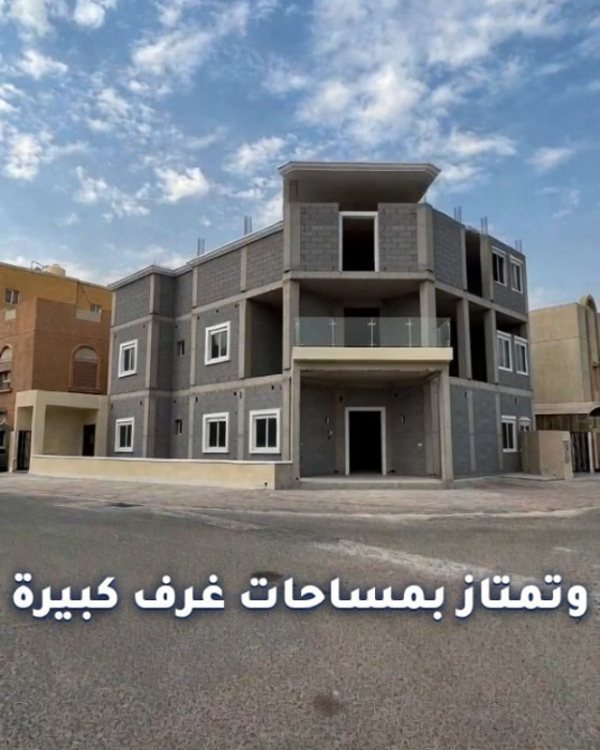
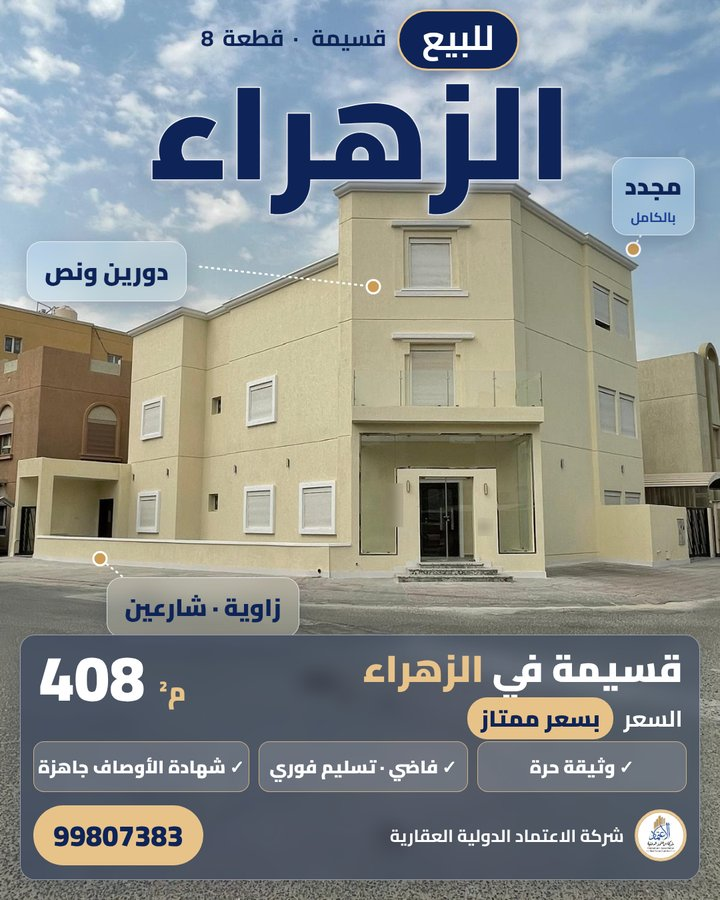
Add Zahraa B8 listing
Claude-Session: https://claude.ai/code/session_01XqGtHJzfqwwHJM9AbptEBK

diff --git a/for-sale.html b/for-sale.html
@@ -51,6 +51,11 @@
     
     <div class="grid">
       <article class="card reveal">
+        <div class="ph"><img src="img/zahraa8.jpg" alt="قسيمة للبيع في الزهراء قطعة 8" loading="lazy"><span class="tag">للبيع</span></div>
+        <div class="body"><h3>قسيمة · الزهراء ق8</h3><div class="meta"><span>408 م²</span><span>زاوية شارعين</span><span>مجددة · تسليم فوري</span></div>
+        <div class="price"><b>بسعر ممتاز</b><a href="https://wa.me/96598926543?text=%D8%A7%D8%B3%D8%AA%D9%81%D8%B3%D8%A7%D8%B1%20%D8%B9%D9%86%20%D9%82%D8%B3%D9%8A%D9%85%D8%A9%20%D8%A7%D9%84%D8%B2%D9%87%D8%B1%D8%A7%D8%A1%20%D9%828" target="_blank" rel="noopener">استفسار ←</a></div></div>
+      </article>
+      <article class="card reveal">
         <div class="ph"><img src="img/qurain1.jpg" alt="بيت للبيع في القرين قطعة 1" loading="lazy"><span class="tag">للبيع</span></div>
         <div class="body"><h3>بيت · القرين ق1</h3><div class="meta"><span>400 م²</span><span>زاوية داخلية · حديقة</span><span>مرمم بالكامل</span></div>
         <div class="price"><b>320,000 د.ك</b><a href="https://wa.me/96598926543?text=%D8%A7%D8%B3%D8%AA%D9%81%D8%B3%D8%A7%D8%B1%20%D8%B9%D9%86%20%D8%A8%D9%8A%D8%AA%20%D8%A7%D9%84%D9%82%D8%B1%D9%8A%D9%86%20%D9%821" target="_blank" rel="noopener">استفسار ←</a></div></div>

diff --git a/index.html b/index.html
@@ -62,7 +62,7 @@
     <div class="head reveal"><div class="kicker">أقسام الموقع</div><h2>وين تبي تروح؟</h2><p>كل قسم له صفحة خاصة. اختار وادخل.</p></div>
     <div class="tiles">
       <a class="tile big t-sale reveal" href="for-sale.html">
-        <div class="pics"><img src="img/qurain1.jpg" alt=""><img src="img/nahda1.jpg" alt=""><img src="img/abdmubarak9.jpg" alt=""></div>
+        <div class="pics"><img src="img/zahraa8.jpg" alt=""><img src="img/qurain1.jpg" alt=""><img src="img/nahda1.jpg" alt=""></div>
         <div class="tx"><span class="lbl">للبيع</span><b>عقارات للبيع</b><small>بيوت وقسائم سكن خاص بأسعار واضحة</small><em>شوف العروض ←</em></div>
       </a>
       <a class="tile big t-sold reveal" href="sold.html">
